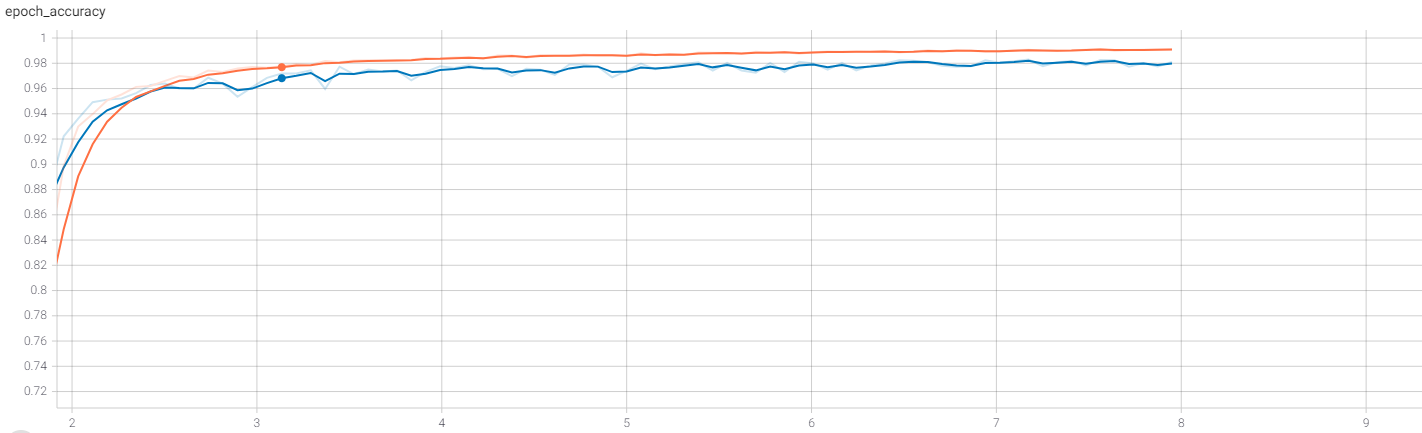
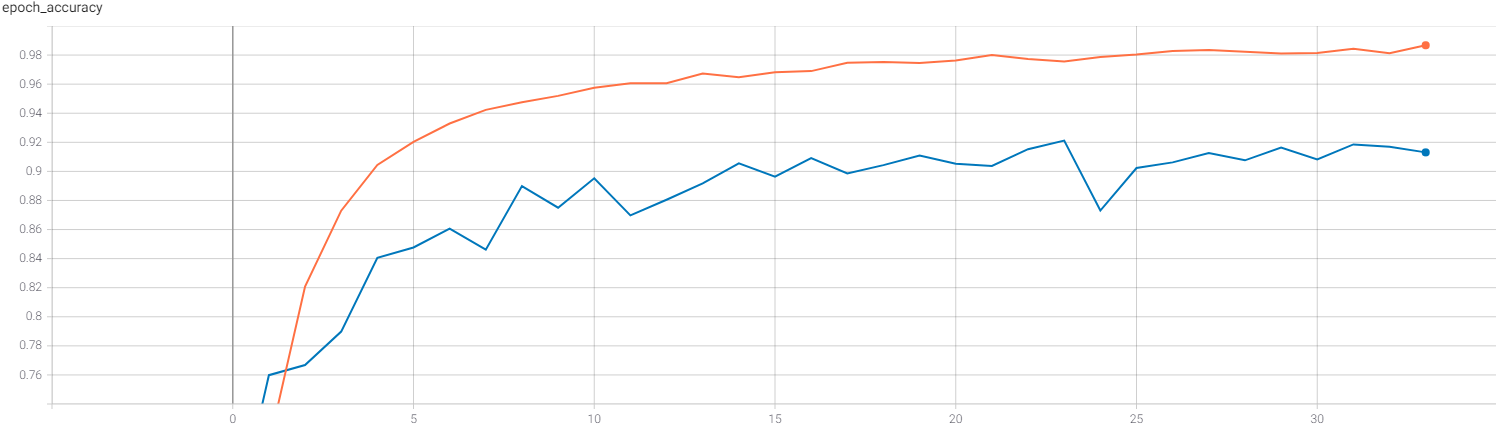
VGG16 and update in graphs

diff --git a/VGG16.py b/VGG16.py
@@ -1,0 +1,85 @@
+import numpy as np
+import tensorflow as tf
+from tensorflow.keras import layers
+from tensorflow.keras.layers import Input, Add, Dense, Activation, ZeroPadding2D, BatchNormalization, Flatten, Conv2D, AveragePooling2D, MaxPooling2D, GlobalMaxPooling2D
+from tensorflow.keras.regularizers import l1
+from tensorflow.keras.layers import Dropout
+from tensorflow.keras.models import Model, load_model
+from tensorflow.keras.preprocessing import image
+from tensorflow.keras.preprocessing.image import ImageDataGenerator
+from tensorflow.keras.applications.imagenet_utils import preprocess_input
+from IPython.display import SVG
+from tensorflow.keras.utils import plot_model
+# from resnets_utils import *
+from tensorflow.keras.initializers import glorot_uniform
+import scipy.misc
+from matplotlib.pyplot import imshow
+from tensorflow.keras.optimizers import SGD, Adam, RMSprop
+from tensorflow.keras.callbacks import EarlyStopping
+from tensorflow.keras.applications.vgg16 import VGG16
+from tensorflow.keras import models
+from tensorflow.keras.callbacks import ModelCheckpoint
+from tensorflow.keras import layers
+from tensorflow.keras import optimizers
+
+%matplotlib inline
+
+tensorboard_callback = tf.keras.callbacks.TensorBoard(log_dir="./logs")
+
+batch_size = 64
+
+train_datagen = ImageDataGenerator(
+        rescale=1./255,
+        horizontal_flip=True,
+        vertical_flip = True,
+        rotation_range = 15)
+
+test_datagen = ImageDataGenerator(rescale=1./255)
+
+train_generator = train_datagen.flow_from_directory(
+        './dataset/train_pose/',
+        target_size=(200, 200),
+        color_mode = 'rgb',
+        batch_size=batch_size,
+        class_mode='categorical',
+        #save_to_dir= 'dataset/',
+        #subset='training',
+        )
+
+validation_generator = test_datagen.flow_from_directory(
+        './dataset/test_pose/',
+        target_size=(200, 200),
+        color_mode = 'rgb',
+        batch_size=batch_size,
+        class_mode='categorical',
+        #shuffle= 'True',
+        #subset='validation',
+        )
+
+vgg_model = VGG16(include_top=False,input_shape=(200,200,3),weights=None,classes=16)
+vgg_output = vgg_model.output
+x = Flatten()(vgg_output)
+x = Dense(128, activation='relu')(x)
+x = Dropout(0.15)(x)
+x = Dense(128, activation='relu')(x)
+x = Dropout(0.15)(x)
+
+predictions = Dense(16, activation = 'softmax', name='camada_saida')(x)
+model = Model(inputs=vgg_model.input, outputs=predictions)
+
+
+model.summary()
+op = Adam(lr=0.0001)    
+model.compile(optimizer=op, loss='categorical_crossentropy', metrics=['accuracy'])
+es = EarlyStopping(monitor='val_accuracy', mode='auto', verbose=1, patience=5)
+mc = ModelCheckpoint('./modelos/VGG16_modelacc.h5', monitor='val_accuracy', mode='max', verbose=1, save_best_only=True)
+mc2 = ModelCheckpoint('./modelos/VGG16_modelloss.h5', monitor='val_loss', mode='min', verbose=1, save_best_only=True)
+
+history = model.fit_generator(
+        train_generator,
+        steps_per_epoch=39423/batch_size,
+        epochs=40,
+        validation_data=validation_generator,
+        validation_steps=10043/batch_size,
+        callbacks=[es,mc,mc2, tensorboard_callback])
+

diff --git a/AlexNet.py b/AlexNet.py
@@ -12,37 +12,54 @@ from matplotlib import pyplot as plt
 
 tensorboard_callback = tf.keras.callbacks.TensorBoard(log_dir="./logs")
 
+AUTOTUNE = tf.data.experimental.AUTOTUNE
+
 
 batch_size = 64
 
-train_datagen = ImageDataGenerator(
-        rescale=1./255,
-        horizontal_flip=True,
-        vertical_flip=True,
-        rotation_range = 15)
+# train_datagen = ImageDataGenerator(
+#         rescale=1./255,
+#         horizontal_flip=True,
+#         vertical_flip=True,
+#         rotation_range = 15)
 
-test_datagen = ImageDataGenerator(rescale=1./255)
+train_datagen = tf.keras.Sequential([
+    tf.keras.layers.experimental.preprocessing.Rescaling(1./255),
+    tf.keras.layers.experimental.preprocessing.RandomRotation(0.30),
+    tf.keras.layers.experimental.preprocessing.RandomFlip()
+    ])
 
-train_generator = train_datagen.flow_from_directory(
+# test_datagen = ImageDataGenerator(rescale=1./255)
+
+test_datagen = tf.keras.Sequential([
+    tf.keras.layers.experimental.preprocessing.Rescaling(1./255)
+    ])
+
+train_generator = tf.keras.preprocessing.image_dataset_from_directory(
         './dataset/train_pose/',
-        target_size=(200, 200),
+        image_size=(200, 200),
         color_mode = 'rgb',
         batch_size=batch_size,
-        class_mode='categorical',
+        label_mode="categorical"
+        
         #save_to_dir= 'dataset/',
         #subset='training',
         )
+train_generator = train_generator.map(lambda x, y: (train_datagen(x, training=True), y))
+train_generator = train_generator.cache().prefetch(buffer_size=AUTOTUNE)
 
-validation_generator = test_datagen.flow_from_directory(
+
+validation_generator = tf.keras.preprocessing.image_dataset_from_directory(
         './dataset/test_pose/',
-        target_size=(200, 200),
+        image_size=(200, 200),
         color_mode = 'rgb',
         batch_size=batch_size,
-        class_mode='categorical',
+        label_mode="categorical"
         #shuffle= 'True',
         #subset='validation',
         )
-
+validation_generator = validation_generator.map(lambda x, y: (test_datagen(x, training=True), y))
+validation_generator = validation_generator.cache().prefetch(buffer_size=AUTOTUNE)
 
 inp = Input(shape = (200,200,3))
 
@@ -60,9 +77,9 @@ x = MaxPooling2D(pool_size=(2,2), strides=2)(x)
 # x = MaxPooling2D(pool_size=(3,3))
 
 x = Flatten()(x)
-x = Dense(4096, activation='selu')(x)
+x = Dense(4096, activation='relu')(x)
 x = Dropout(0.4)(x)
-x = Dense(4096, activation='selu')(x)
+x = Dense(4096, activation='relu')(x)
 x = Dropout(0.4)(x)
 
 predictions = Dense(16, activation = 'softmax', name='camada_saida')(x)
@@ -76,12 +93,10 @@ mc2 = ModelCheckpoint('./modelos/alexNet2_loss.h5', monitor='val_loss', mode='mi
 
 model.summary()
 
-history = model.fit_generator(
+history = model.fit(
         train_generator,
-        steps_per_epoch=39423/batch_size,
         epochs=1000,
         validation_data=validation_generator,
-        validation_steps=10043/batch_size,
         callbacks=[es,mc,mc2, tensorboard_callback]
 )
 
